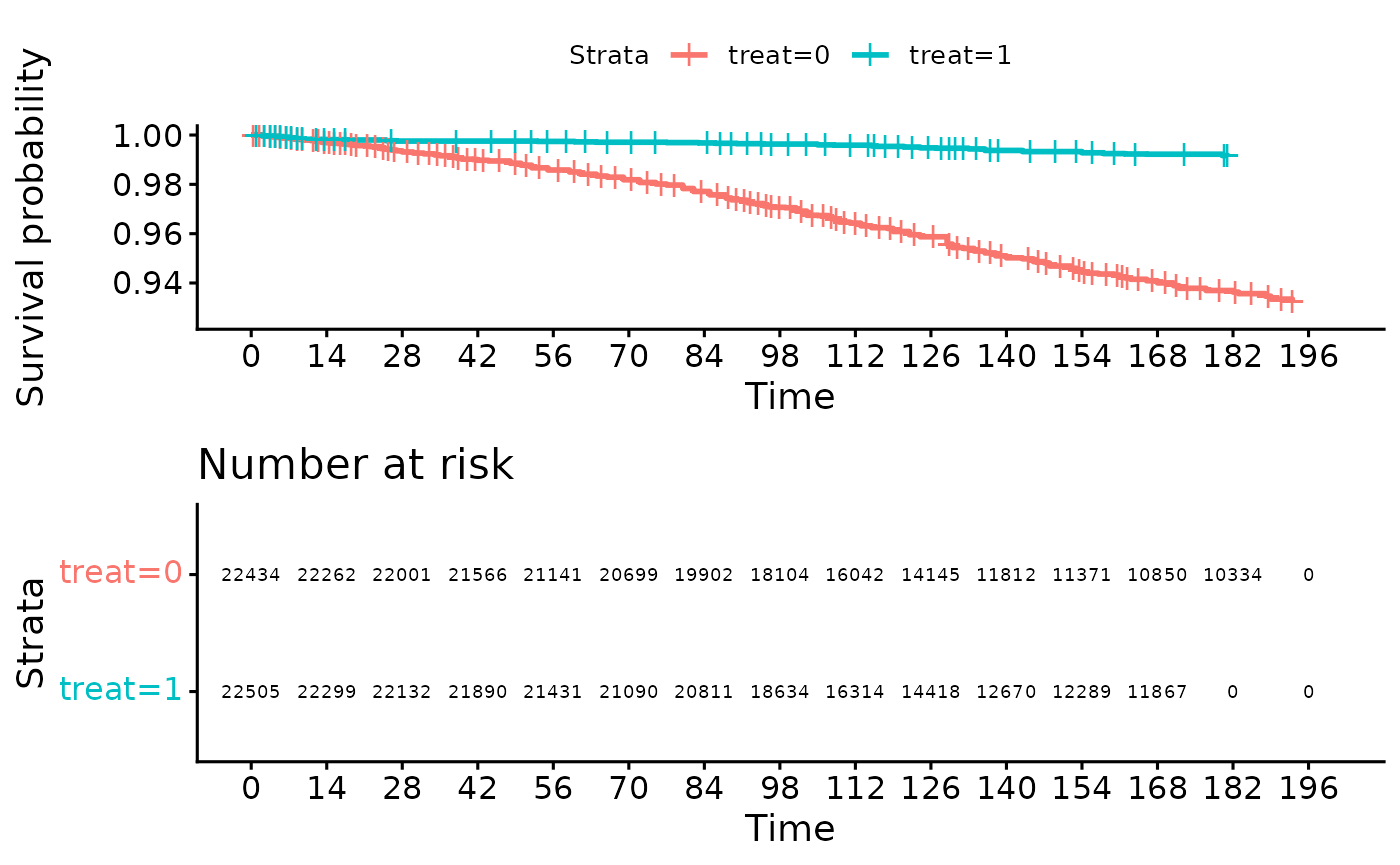
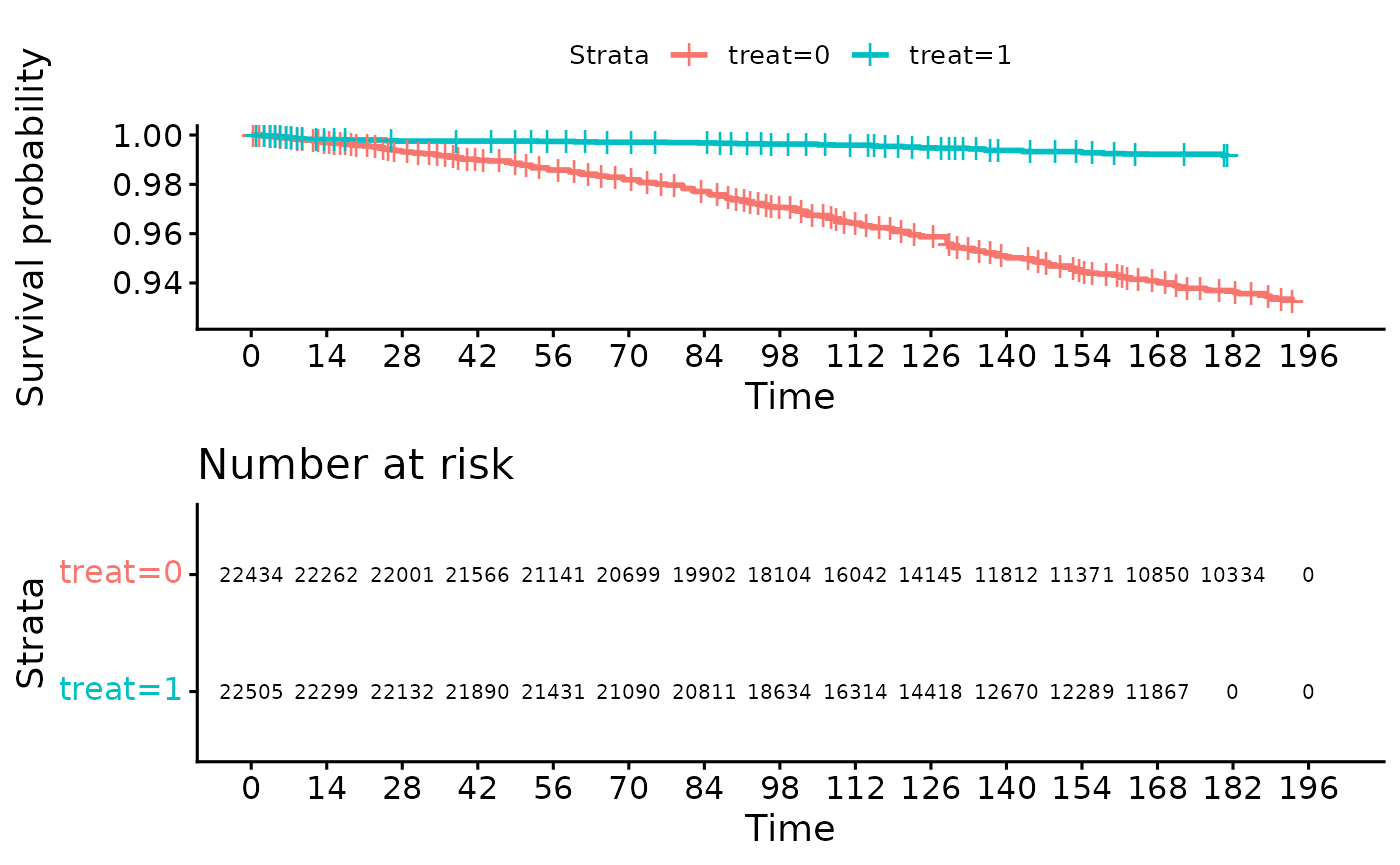
Deploying to gh-pages from @ swihart/mpw@fc465f37d7b0c1c795d4d0987cba72e2fe9d0e26 🚀

Changed region(s): [[0.1536, 0.6555, 0.9214, 0.6867], [0.1536, 0.7803, 0.86, 0.8116]]

diff --git a/articles/wwps-fay-ipd.html b/articles/wwps-fay-ipd.html
@@ -158,7 +158,7 @@ with the core of our example.</p>
 <span><span class="co"># Visualize with survminer</span></span>
 <span><span class="fu"><a href="https://rdrr.io/pkg/survminer/man/ggsurvplot.html" class="external-link">ggsurvplot</a></span><span class="op">(</span><span class="va">fit</span>, data <span class="op">=</span> <span class="va">ipd_data</span>, risk.table <span class="op">=</span> <span class="cn">TRUE</span>, </span>
 <span>           ylim<span class="op">=</span><span class="fu"><a href="https://rdrr.io/r/base/c.html" class="external-link">c</a></span><span class="op">(</span><span class="fl">1</span>,<span class="fl">0.993</span><span class="op">)</span>, xlim<span class="op">=</span><span class="fu"><a href="https://rdrr.io/r/base/c.html" class="external-link">c</a></span><span class="op">(</span><span class="fl">0</span>,<span class="fl">28</span><span class="op">)</span>, break.time.by<span class="op">=</span><span class="fl">11</span>,</span>
-<span>           fontsize<span class="op">=</span><span class="fl">2.5</span>,tables.height <span class="op">=</span> <span class="fl">0.50</span><span class="op">)</span></span></code></pre></div>
+<span>           fontsize<span class="op">=</span><span class="fl">2.7</span>,tables.height <span class="op">=</span> <span class="fl">0.50</span><span class="op">)</span></span></code></pre></div>
 <p><img src="wwps-fay-ipd_files/figure-html/thomas-data-1.png" class="r-plt" width="700"></p>
 <div class="sourceCode" id="cb2"><pre class="downlit sourceCode r">
 <code class="sourceCode R"><span></span>
@@ -166,7 +166,7 @@ with the core of our example.</p>
 <span><span class="co">## full view; every 14 days</span></span>
 <span><span class="fu"><a href="https://rdrr.io/pkg/survminer/man/ggsurvplot.html" class="external-link">ggsurvplot</a></span><span class="op">(</span><span class="va">fit</span>, data <span class="op">=</span> <span class="va">ipd_data</span>, risk.table <span class="op">=</span> <span class="cn">TRUE</span>, </span>
 <span>           ylim<span class="op">=</span><span class="fu"><a href="https://rdrr.io/r/base/c.html" class="external-link">c</a></span><span class="op">(</span><span class="fl">1</span>,<span class="fl">0.925</span><span class="op">)</span>, break.time.by<span class="op">=</span><span class="fl">14</span>,</span>
-<span>           fontsize<span class="op">=</span><span class="fl">2.5</span>, tables.height <span class="op">=</span> <span class="fl">0.50</span><span class="op">)</span></span></code></pre></div>
+<span>           fontsize<span class="op">=</span><span class="fl">2.7</span>, tables.height <span class="op">=</span> <span class="fl">0.50</span><span class="op">)</span></span></code></pre></div>
 <p><img src="wwps-fay-ipd_files/figure-html/thomas-data-2.png" class="r-plt" width="700"></p>
 <div class="sourceCode" id="cb3"><pre class="downlit sourceCode r">
 <code class="sourceCode R"><span></span>

diff --git a/articles/wwps-fay-ipd.md b/articles/wwps-fay-ipd.md
@@ -73,7 +73,7 @@ fit <- survfit(Surv(time, status) ~ treat,
 # Visualize with survminer
 ggsurvplot(fit, data = ipd_data, risk.table = TRUE, 
            ylim=c(1,0.993), xlim=c(0,28), break.time.by=11,
-           fontsize=2.5,tables.height = 0.50)
+           fontsize=2.7,tables.height = 0.50)
 ```
 
 ![](wwps-fay-ipd_files/figure-html/thomas-data-1.png)
@@ -84,7 +84,7 @@ ggsurvplot(fit, data = ipd_data, risk.table = TRUE,
 ## full view; every 14 days
 ggsurvplot(fit, data = ipd_data, risk.table = TRUE, 
            ylim=c(1,0.925), break.time.by=14,
-           fontsize=2.5, tables.height = 0.50)
+           fontsize=2.7, tables.height = 0.50)
 ```
 
 ![](wwps-fay-ipd_files/figure-html/thomas-data-2.png)
